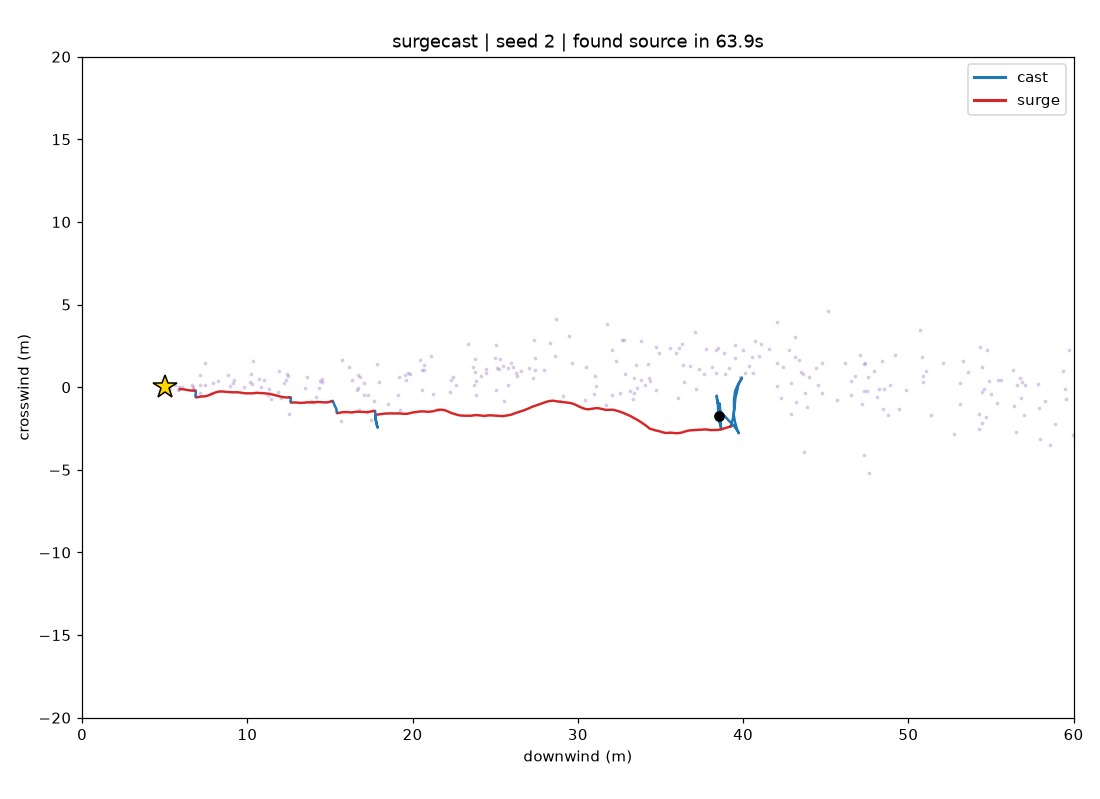
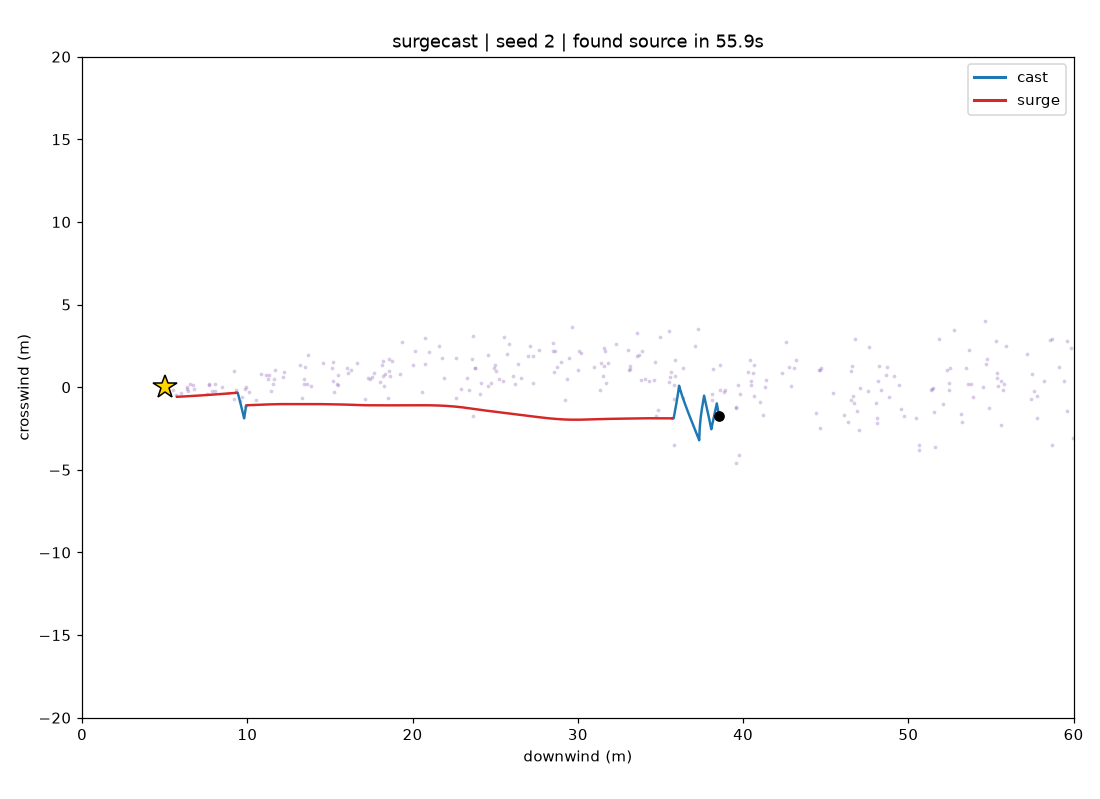
surgecast: surge along averaged wind, edge upwind while casting
Surge heading now follows an exponential moving average of the felt
wind (tau 10 s) instead of the instantaneous gust, since odor at the
agent travelled on past wind. Casting keeps a 0.2 upwind component.

Held-out bench (seeds 0-49): median 78 s -> 56.5 s, success 100% -> 98%.
Snakier wind (meander 0.6): success 50% -> 80%, median 108 s -> 73 s.
Tuned on seeds 100-149.

diff --git a/src/surgecast/agents.py b/src/surgecast/agents.py
@@ -31,12 +31,37 @@ def _rotate(v: np.ndarray, angle: float) -> np.ndarray:
     return np.array([c * v[0] - s * v[1], s * v[0] + c * v[1]])
 
 
+class WindMemory:
+    """Exponential moving average of the wind the agent has felt.
+
+    The odor at the agent left the source seconds ago and travelled with the wind of that
+    time, so the line back to the source follows the recent average wind, not the gust
+    blowing right now. Surging along the average keeps the agent on the plume axis.
+    """
+
+    def __init__(self, tau: float):
+        self.tau = tau
+        self.w: np.ndarray | None = None
+
+    def update(self, wind: np.ndarray, dt: float) -> np.ndarray:
+        if self.w is None or self.tau <= 0:
+            self.w = wind.copy()
+        else:
+            self.w = self.w + (wind - self.w) * min(dt / self.tau, 1.0)
+        return self.w
+
+
 class SurgeCast:
     """The moth strategy.
 
-    On contact with odor, surge straight upwind. When the odor is lost, cast crosswind in a
-    zigzag whose legs (in seconds) grow each turn, widening the search. Unlike gradient-following, this never needs to compare two concentrations, which is
-    why it works in turbulent air where gradients are meaningless.
+    On contact with odor, surge upwind. When the odor is lost, cast crosswind in a zigzag
+    whose legs (in seconds) grow each turn, widening the search, while still edging slowly
+    upwind. Unlike gradient-following, this never needs to compare two concentrations, which
+    is why it works in turbulent air where gradients are meaningless.
+
+    "Upwind" uses the wind averaged over `wind_tau` seconds (see `WindMemory`). `cast_upwind`
+    is how much upwind progress to keep while casting. Above ~0.2 the agent starts
+    overshooting the source, and nothing upwind of the source ever smells of anything.
     """
 
     name = "surgecast"
@@ -47,14 +72,19 @@ class SurgeCast:
         cast_leg: float = 2.0,
         cast_growth: float = 1.3,
         max_leg: float = 10.0,
+        wind_tau: float = 10.0,
+        cast_upwind: float = 0.2,
     ):
         self.surge_time = surge_time
         self.cast_leg = cast_leg
         self.cast_growth = cast_growth
         self.max_leg = max_leg
+        self.wind_tau = wind_tau
+        self.cast_upwind = cast_upwind
 
     def reset(self, rng: np.random.Generator) -> None:
         self.rng = rng
+        self.wind = WindMemory(self.wind_tau)
         self.last_hit = -np.inf
         self.cast_dir = rng.choice([-1.0, 1.0])
         # First leg is half length so the zigzag is centred on where the odor was lost.
@@ -63,7 +93,7 @@ class SurgeCast:
         self.state = "cast"
 
     def act(self, obs: Observation, dt: float) -> np.ndarray:
-        upwind = _unit(-obs.wind)
+        upwind = _unit(-self.wind.update(obs.wind, dt))
         crosswind = np.array([-upwind[1], upwind[0]])
 
         if obs.detected:
@@ -84,7 +114,7 @@ class SurgeCast:
             # After the opening half leg, legs start at full length and then widen.
             grown = self.cast_leg if self.leg_len < self.cast_leg else self.leg_len * self.cast_growth
             self.leg_len = min(grown, self.max_leg)
-        return self.cast_dir * crosswind
+        return _unit(self.cast_dir * crosswind + self.cast_upwind * upwind)
 
 
 class UpwindOnly:
@@ -92,22 +122,25 @@ class UpwindOnly:
 
     name = "upwind"
 
-    def __init__(self, surge_time: float = 1.0, turn_sigma: float = 0.6):
+    def __init__(self, surge_time: float = 1.0, turn_sigma: float = 0.6, wind_tau: float = 10.0):
         self.surge_time = surge_time
         self.turn_sigma = turn_sigma
+        self.wind_tau = wind_tau
 
     def reset(self, rng: np.random.Generator) -> None:
         self.rng = rng
+        self.wind = WindMemory(self.wind_tau)
         self.last_hit = -np.inf
         self.heading = _rotate(np.array([1.0, 0.0]), rng.uniform(-np.pi, np.pi))
         self.state = "search"
 
     def act(self, obs: Observation, dt: float) -> np.ndarray:
+        wind = self.wind.update(obs.wind, dt)
         if obs.detected:
             self.last_hit = obs.t
         if obs.t - self.last_hit <= self.surge_time:
             self.state = "surge"
-            self.heading = _unit(-obs.wind)
+            self.heading = _unit(-wind)
             return self.heading
         self.state = "search"
         self.heading = _rotate(self.heading, self.turn_sigma * np.sqrt(dt) * self.rng.standard_normal())

diff --git a/tests/test_surgecast.py b/tests/test_surgecast.py
@@ -33,7 +33,18 @@ def test_surgecast_surges_upwind_on_detection_then_casts_crosswind():
     h = agent.act(Observation(0.0, pos, wind, 1.0, True), 0.1)
     assert agent.state == "surge" and np.allclose(h, [-1.0, 0.0])
     h = agent.act(Observation(5.0, pos, wind, 0.0, False), 0.1)
-    assert agent.state == "cast" and np.allclose(abs(h[1]), 1.0)
+    # Mostly crosswind, edging upwind.
+    assert agent.state == "cast" and abs(h[1]) > 0.9 and h[0] < 0
+
+
+def test_surge_follows_averaged_wind_not_the_latest_gust():
+    agent = AGENTS["surgecast"](wind_tau=10.0)
+    agent.reset(np.random.default_rng(0))
+    steady, gust = np.array([1.0, 0.0]), np.array([0.0, 1.0])
+    for i in range(200):
+        agent.act(Observation(i * 0.1, np.zeros(2), steady, 1.0, True), 0.1)
+    h = agent.act(Observation(20.0, np.zeros(2), gust, 1.0, True), 0.1)
+    assert agent.state == "surge" and h[0] < -0.95
 
 
 def test_cast_legs_alternate_and_widen():

diff --git a/README.md b/README.md
@@ -12,19 +12,33 @@ say almost nothing about which way the source is, so "go where it's stronger" wa
 inside the plume and never closes in. Moths ignore the concentration level. They use only
 *odor present / absent* plus the *wind direction* they feel on their antennae:
 
-- **Surge:** odor detected → fly straight upwind.
+- **Surge:** odor detected → fly upwind.
 - **Cast:** odor lost → zigzag crosswind, with each leg wider than the last, until it's back.
+
+Two refinements make it faster:
+
+- **Upwind means the recent average wind**, not the current gust. The odor reaching you left
+  the source seconds ago on the wind of that time, so the averaged wind points back along the
+  plume.
+- **Casting keeps edging upwind** (about 20% of its effort). Any more than that and the agent
+  overshoots the source, and nothing upwind of the source ever smells of anything.
 
 Same 50 simulated plumes for every strategy (`surgecast bench`):
 
 | agent | strategy | success | median time |
 |---|---|---|---|
-| `surgecast` | surge upwind on contact, cast crosswind on loss | **100%** | 78 s |
-| `upwind` | surge on contact, random walk on loss (no casting) | 36% | 69 s |
+| `surgecast` | surge upwind on contact, cast crosswind on loss | **98%** | 56 s |
+| `upwind` | surge on contact, random walk on loss (no casting) | 50% | 50 s |
 | `gradient` | klinotaxis: keep heading while concentration rises | 0% | – |
 
 The `upwind` row shows that casting is what makes this work. Surging alone loses the plume and
 rarely finds it again (its median time is lower only because it succeeds just on the easy runs).
+
+The refinements cut surgecast's median time from 78 s to 56 s on these seeds. The cost is
+one near-miss in 50: a plume so sparse that the agent edged past it to finish level with the
+source but 2.6 m to the side. In snakier wind (`--meander 0.6`) they help across the board,
+raising success from 50% to 80% and cutting the median from 108 s to 73 s. Parameters were
+tuned on seeds 100–149, which the benchmark seeds 0–49 don't overlap.
 
 | surgecast | gradient (same plume) |
 |---|---|
